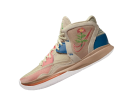
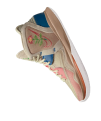
tenis principal

diff --git a/src/app/nike2/nike2.page.scss b/src/app/nike2/nike2.page.scss
@@ -21,8 +21,8 @@ ion-buttons {
     height: 40px;
   };
   ion-card{
-    width: 120px;
-    height: 120px;
+    width: 110px;
+    height: 110px;
    
   };
   #div2{
@@ -30,4 +30,8 @@ ion-buttons {
     justify-content: space-around;
     align-items: center;
     margin-top: auto;
+  };
+  #tenis_principal{
+    width: 400px;
+    height: 400px;
   }

diff --git a/src/app/nike2/nike2.page.html b/src/app/nike2/nike2.page.html
@@ -29,6 +29,7 @@
       <img id="tenis1" src="assets/tenis3.png" alt="Nike">
         </ion-card>
     </div>
+    <img id="tenis_principal" src="assets/tenis_principal.png" alt="Nike">
 
   </ion-header>
 </ion-content>
